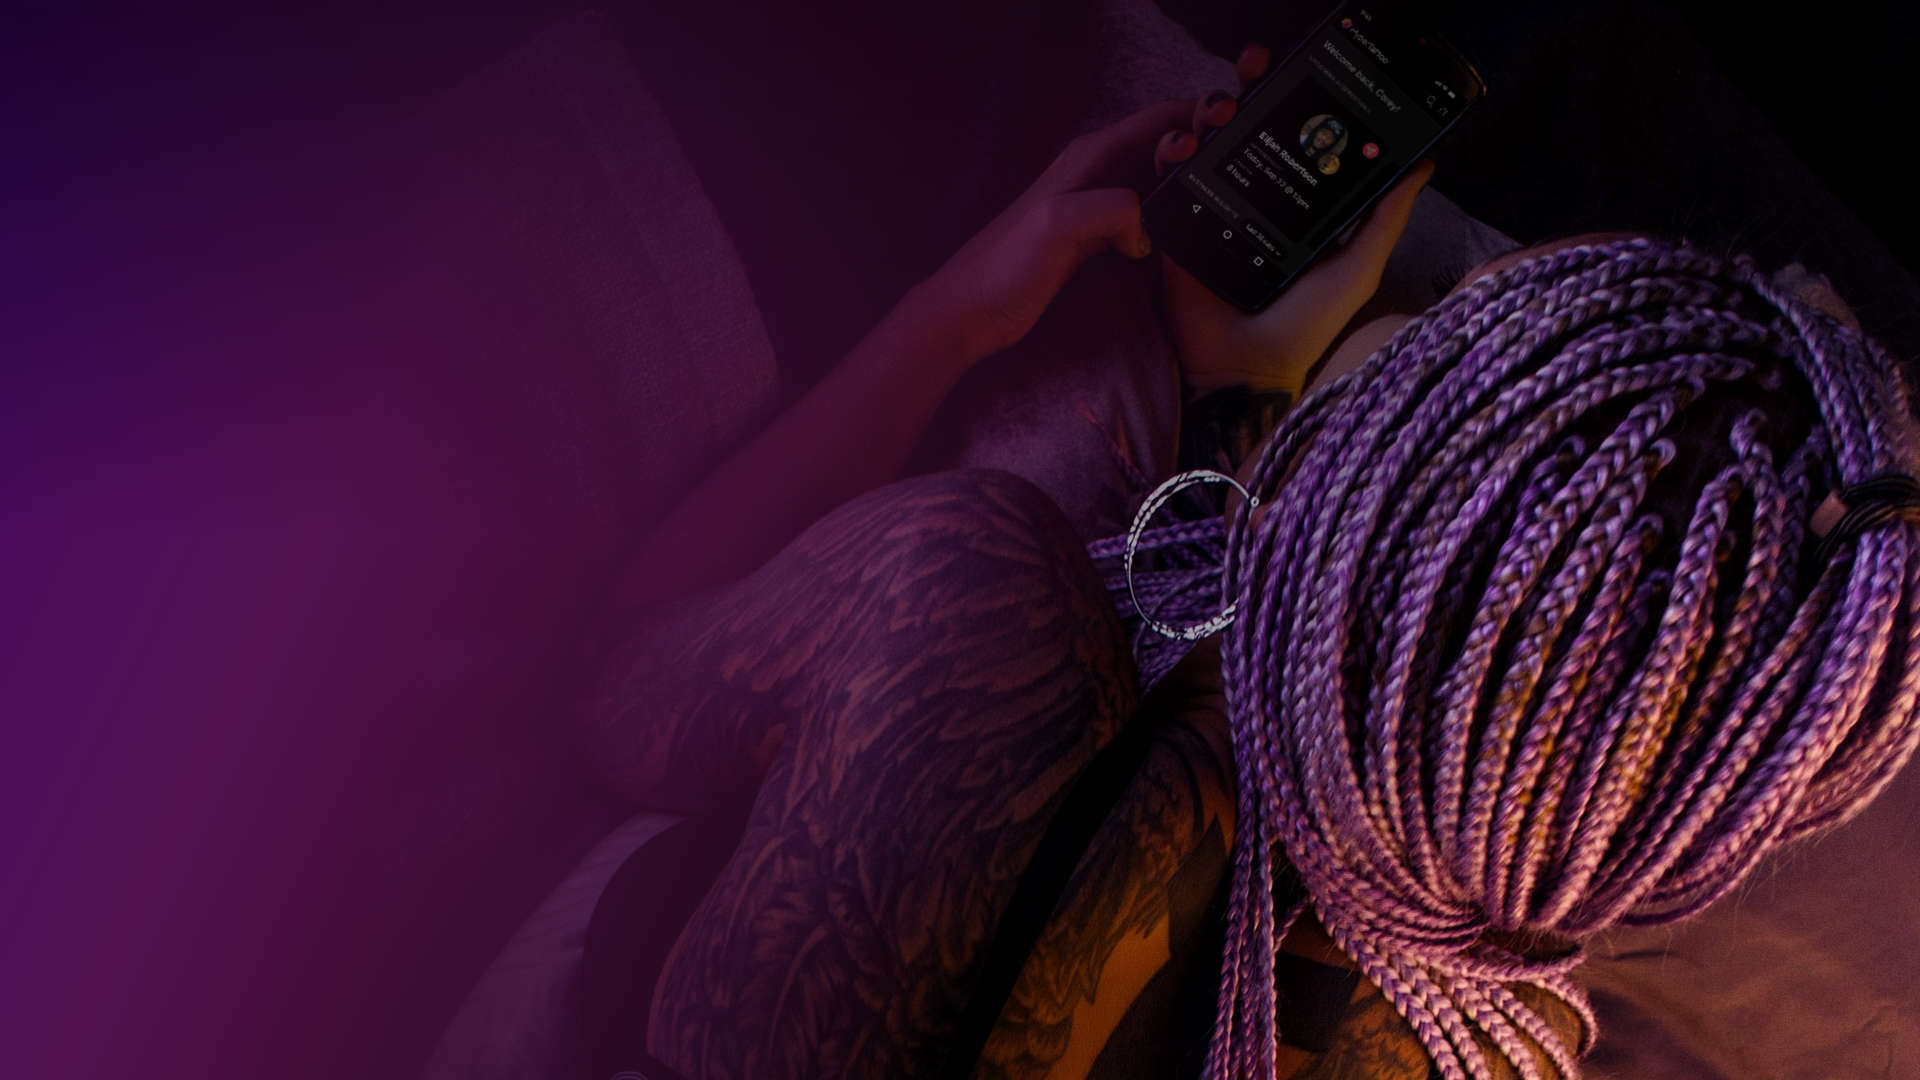
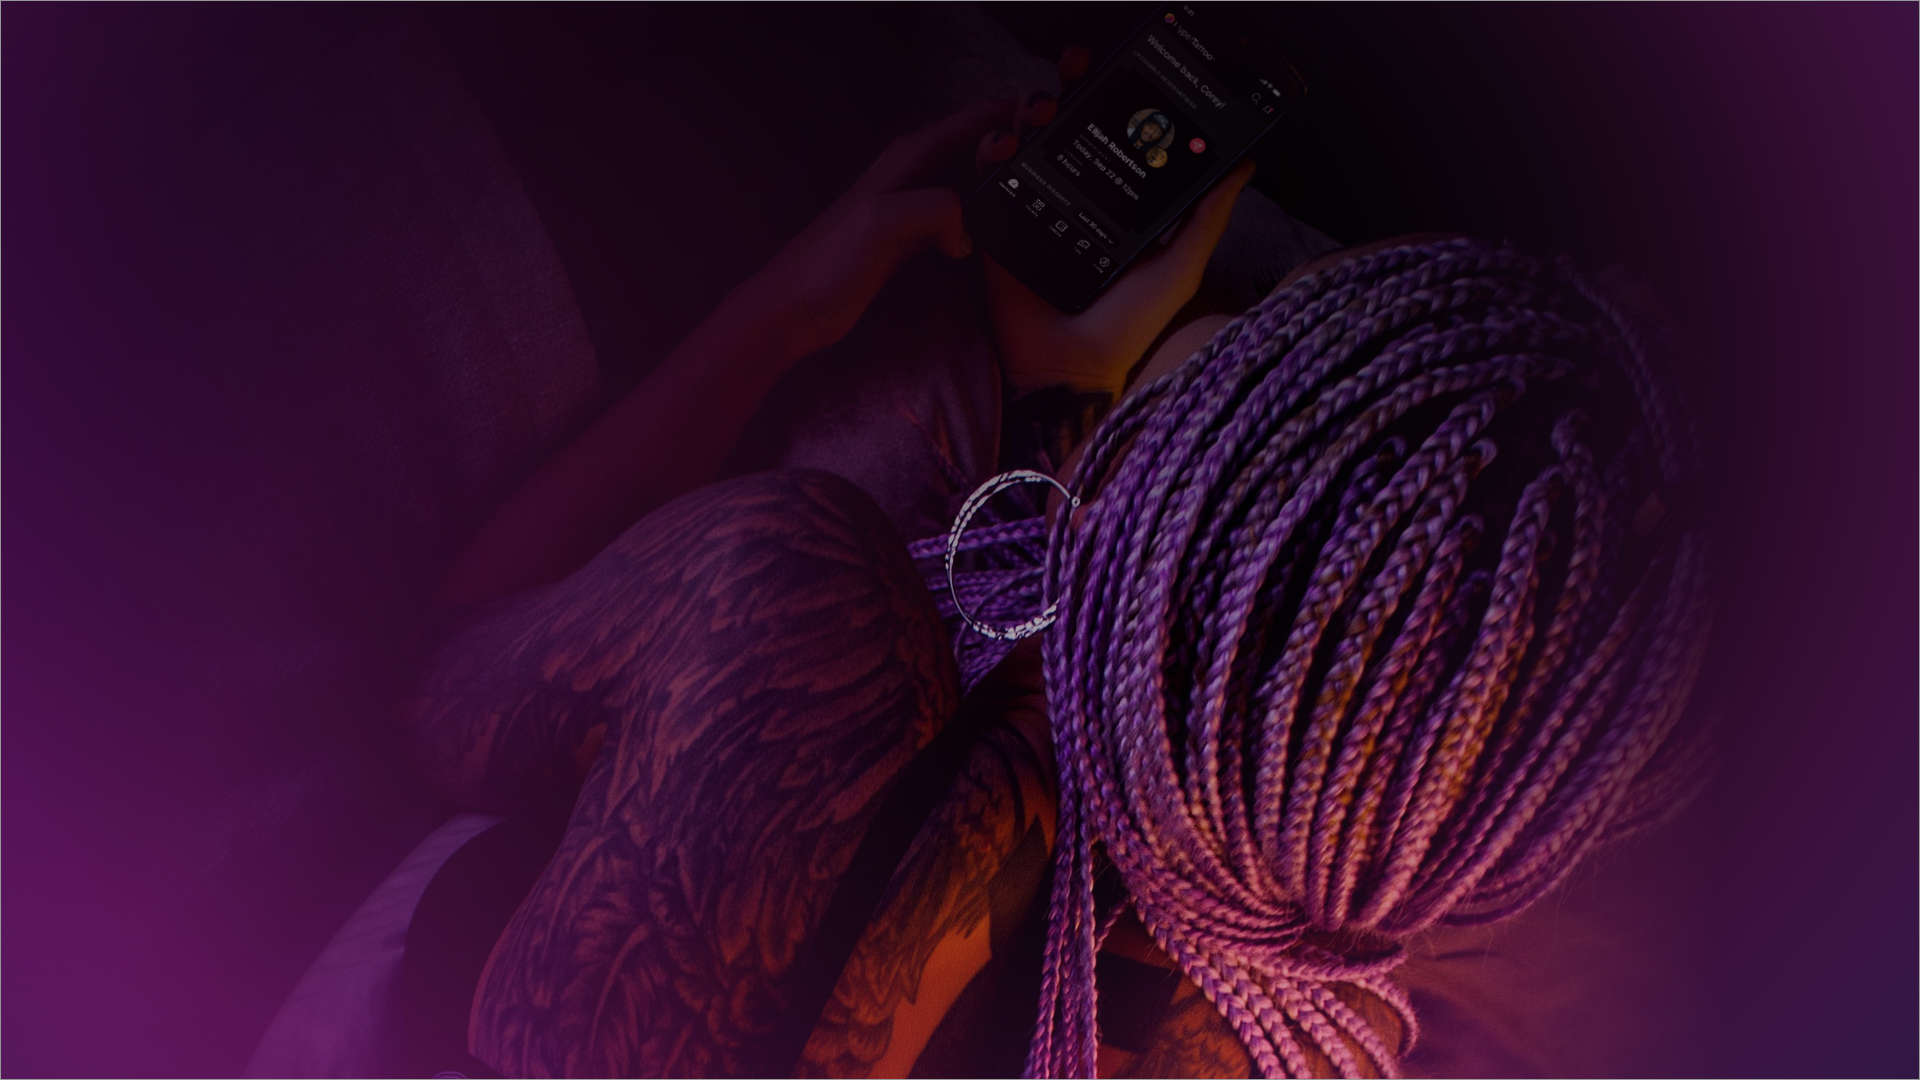
HT-391: [MobileFriendly] Change bottom button to stacked, update hero bg

diff --git a/components/Footer.js b/components/Footer.js
@@ -17,9 +17,10 @@ import Button from '@mui/material/Button';
 import InstagramIcon from '@mui/icons-material/Instagram';
 import FacebookIcon from '@mui/icons-material/Facebook';
 import LinkedInIcon from '@mui/icons-material/LinkedIn';
+import ArrowForwardIosIcon from '@mui/icons-material/ArrowForwardIos';
 
 // Custom
-import CustomTextField from './CustomTextField';
+import CustomTextField, { CustomButton } from './CustomTextField';
 import sectionStyles from '../styles/sectionStyles';
 
 const footerStyles = {
@@ -147,20 +148,50 @@ const Footer = () => {
           <Typography variant="body1">
             We respect your privacy. You can cancel at any time.
           </Typography>
-          <CustomTextField
-            useButton
-            textFieldStyles={{
-              marginTop: 5,
-              marginBottom: 5,
-              width: '22rem',
-              '@media (max-width: 600px)': {
-                width: '20rem',
-              },
-            }}
-            buttonStyles={{ width: '12rem' }}
-            buttonText="Sign Up"
-            placeholder="Email address"
-          />
+          <Hidden smDown>
+            <CustomTextField
+              useButton
+              textFieldStyles={{
+                marginTop: 5,
+                marginBottom: 5,
+                width: '22rem',
+                '@media (max-width: 600px)': {
+                  width: '20rem',
+                },
+              }}
+              buttonStyles={{ width: '12rem' }}
+              buttonText="Sign Up"
+              placeholder="Email address"
+            />
+          </Hidden>
+          <Hidden smUp>
+            <CustomTextField
+              placeholder="Email address"
+              textFieldStyles={{
+                minWidth: '100%',
+                marginBottom: 2,
+                marginTop: 5,
+              }}
+              inputFieldStyles={{
+                width: '100%',
+              }}
+              buttonStyles={{
+                padding: '0.3rem 2rem',
+              }}
+            />
+            <CustomButton
+              buttonIcon={<ArrowForwardIosIcon />}
+              fullWidth
+              styles={{
+                fontSize: '1.2rem',
+                fontWeight: '600',
+                padding: '0.4rem 2rem',
+                textTransform: 'none',
+                marginBottom: 5,
+              }}
+              buttonText="Sign Up"
+            />
+          </Hidden>
           <FooterNavLinks />
           <Typography variant="body1">
             © 2021 HyperTattoo. All rights reserved.

diff --git a/components/CustomTextField.js b/components/CustomTextField.js
@@ -36,9 +36,8 @@ export default function CustomTextField(props) {
       InputProps={{
         sx: {
           '& .MuiInputBase-input': {
-            // padding: 0,
-            paddingTop: 1,
-            paddingBottom: 1,
+            paddingTop: '0.8rem',
+            paddingBottom: '0.8rem',
           },
           paddingLeft: '0.7rem',
           paddingRight: props.useButton ? 0 : '0.5rem',

diff --git a/pages/index.js b/pages/index.js
@@ -224,7 +224,6 @@ const HeroSection = (props) => {
               fontSize: '1.2rem',
               fontWeight: '600',
               padding: '0.6rem 2rem',
-              textTransform: 'none',
             }}
             buttonText="Start for Free"
           />
